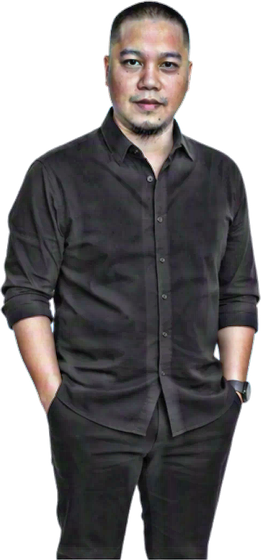
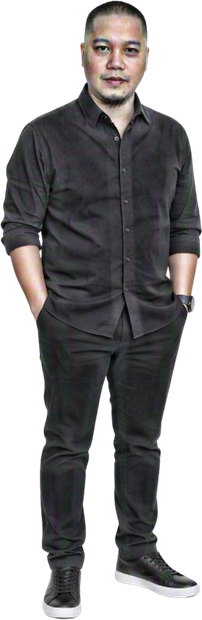
feat: particle portrait from Mark's full-length cutout

diff --git a/src/scripts/portrait-three.ts b/src/scripts/portrait-three.ts
@@ -5,6 +5,7 @@ import { buildParticles, scrollRotation } from './particles';
 
 const SAMPLE = '/portrait/mark-sample.png';
 const CAM_Z = 10, FOV = 35;
+const FIGURE_SCALE = 1.3; // figure height relative to its slot
 const VIEW_H = 2 * CAM_Z * Math.tan((FOV / 2) * (Math.PI / 180)); // world height visible at z = 0
 
 const vert = /* glsl */ `
@@ -94,9 +95,11 @@ export async function createPortrait(hero: HTMLElement, slot: HTMLElement, strid
     renderer.setSize(hr.width, hr.height, false);
     camera.aspect = hr.width / hr.height; camera.updateProjectionMatrix();
     const pxToWorld = VIEW_H / hr.height, viewW = VIEW_H * camera.aspect;
-    figure.scale.setScalar(sr.height * pxToWorld);
-    figure.position.set((sr.left + sr.width / 2 - hr.left) * pxToWorld - viewW / 2, VIEW_H / 2 - (sr.top + sr.height / 2 - hr.top) * pxToWorld, 0);
-    mat.uniforms.uSize.value = Math.max(1, (sr.height / (sample.height / stride)) * 1.3);
+    // Full-length photo: draw it taller than the slot, head at the top, so the hero edge crops the legs.
+    const figH = sr.height * FIGURE_SCALE;
+    figure.scale.setScalar(figH * pxToWorld);
+    figure.position.set((sr.left + sr.width / 2 - hr.left) * pxToWorld - viewW / 2, VIEW_H / 2 - (sr.top + figH / 2 - hr.top) * pxToWorld, 0);
+    mat.uniforms.uSize.value = Math.max(1, (figH / (sample.height / stride)) * 1.3);
     // Faint falling dust in loose vertical columns across the hero.
     const cols = 9;
     for (let i = 0; i < DUST; i++) {

diff --git a/docs/superpowers/specs/2026-11-20-portfolio-design.md b/docs/superpowers/specs/2026-11-20-portfolio-design.md
@@ -99,4 +99,4 @@ The droplet remains a fallback host (nginx serving the `dist/` folder).
 Mark asked for a lovelyfriendly.com-style effect (original implementation, no copied code or assets) with his photo, rotating on scroll.
 - **Decided by Mark:** dark ink hero (rest of site stays light); the integrations map is dropped (integrations remain in case studies, services and tools strip).
 - **Claude's calls:** Three.js point cloud built at runtime from `public/portrait/mark-sample.png` (cutout, CLAHE contrast, 560px tall); depth = rounded per-row bulge; colour white (skin/highlights) → cobalt (dark clothes); faint falling dust columns; turns up to ~63° and disperses as the hero scrolls away, slight pointer parallax. Poster = rendered still of the same scene (`src/assets/portrait-poster.png`), live scene starts on first interaction on all devices (touch: every 2nd pixel). Reduced motion / no WebGL2 / Save-Data keep the poster.
-- **Photo:** currently cut from Mark's example mockup; replace `design/source/portrait-cutout.png` with a higher-res cutout and regenerate the sample + poster.
+- **Photo:** Mark's transparent full-length cutout (`design/source/portrait-cutout.png`), drawn at 1.3× the slot height so the hero edge crops the legs.
